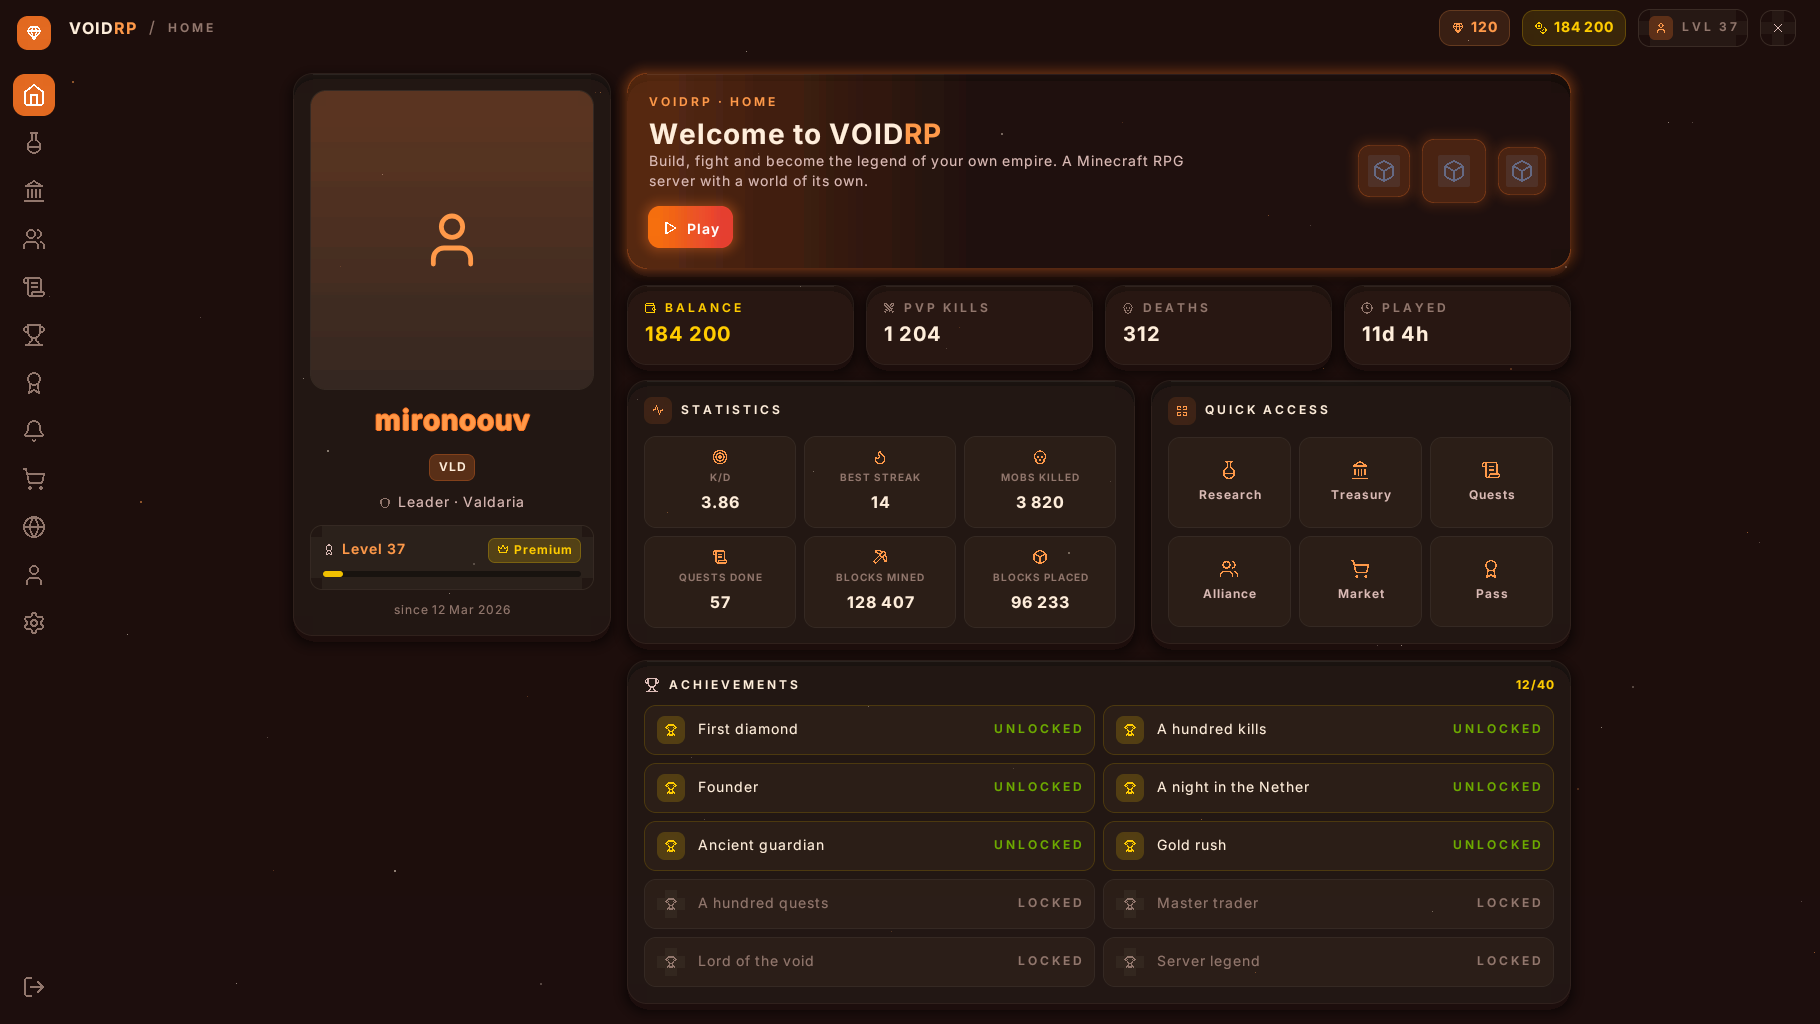
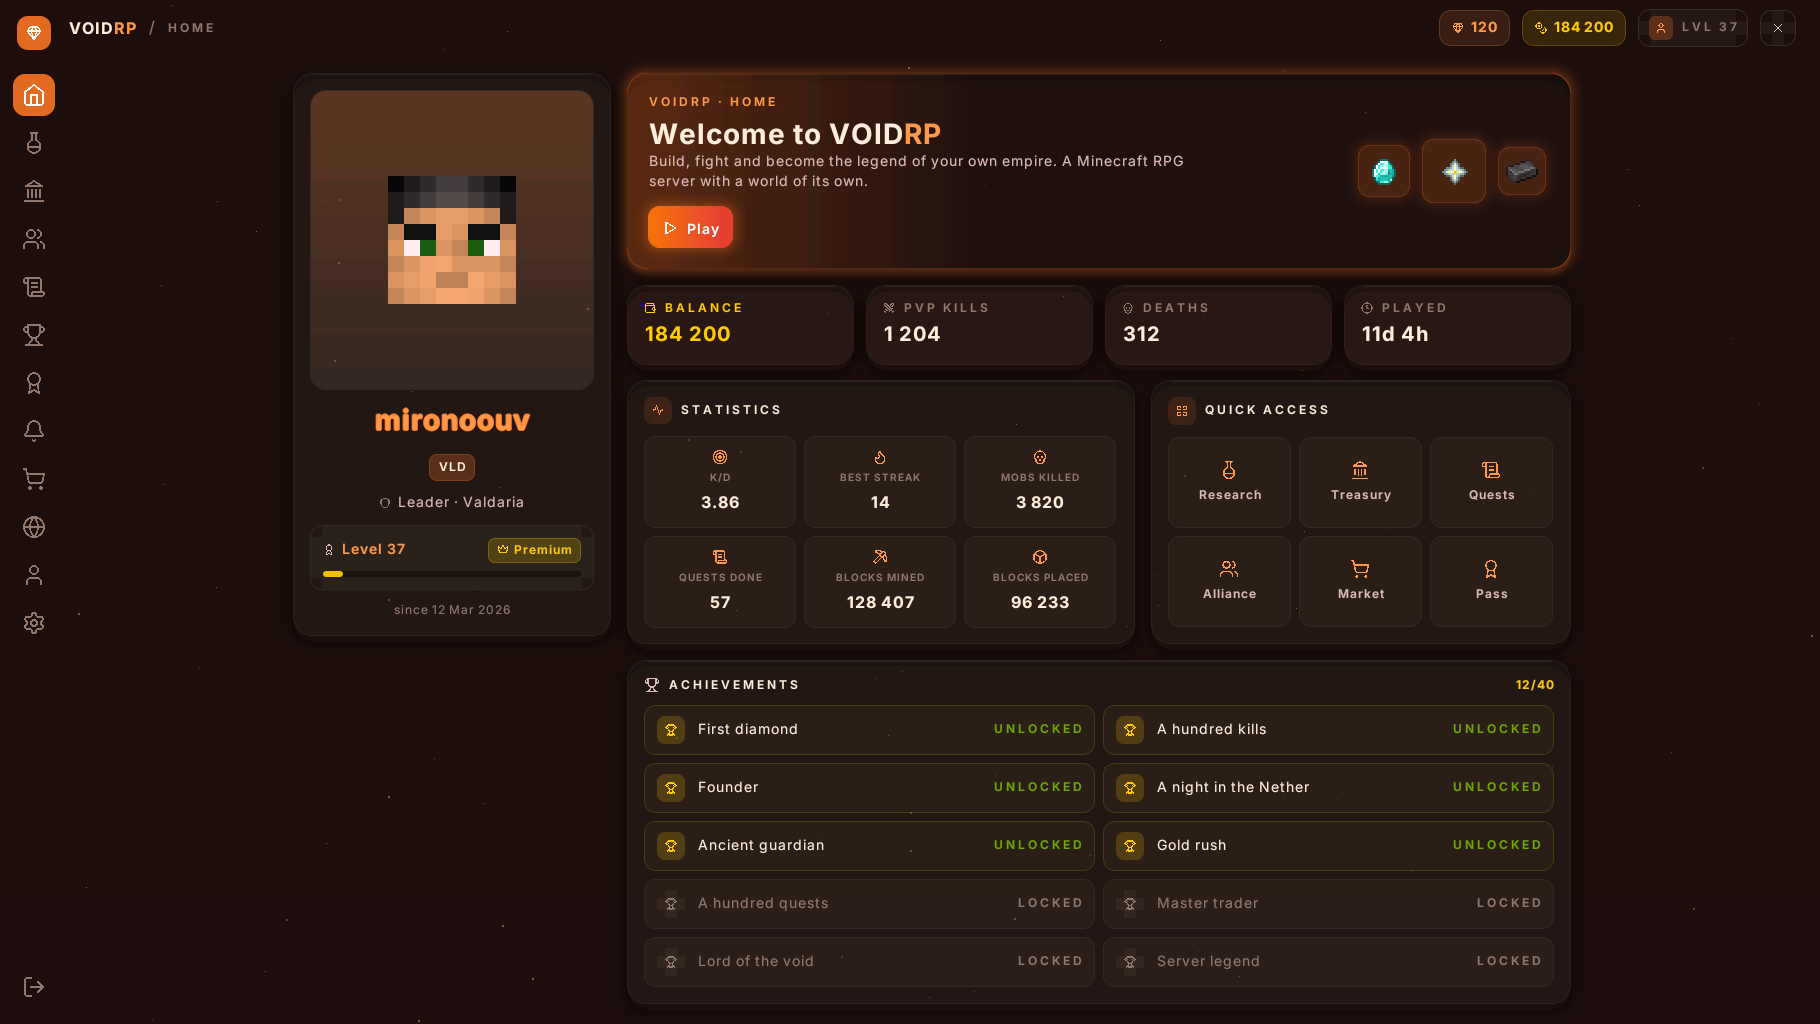
Pictures: a real client on the front page, and the rest redrawn
The hero was a preview render with a placeholder face and placeholder cubes
where the item icons go. It is a screenshot of a vanilla client now — the
player's own skin, the game's own textures, and the cursor on the tile it is
hovering — which is what the paragraph under it had been claiming all along.

The four theme pictures are redrawn from the current code with the real face and
real item textures (`./gradlew preview` takes VOIDRP_CLIENT_JAR, VOIDRP_HEADS and
VOIDRP_IMAGES). The two component sheets came out byte for byte identical, so
they were already current.

Also: the preview tool printed its one line of output in Russian.

Changed region(s): [[0.2154, 0.1562, 0.3077, 0.3125], [0.7385, 0.1562, 0.8615, 0.1875]]

diff --git a/src/test/kotlin/ru/voidrp/ui/Preview.kt b/src/test/kotlin/ru/voidrp/ui/Preview.kt
@@ -129,7 +129,7 @@ object Preview {
         render(StatesSheet().view(), File(out, "states.png"))
         render(StatesSheet(part = 2).view(), File(out, "states-2.png"))
         render(StatesSheet(hover = "hover:button").view(), File(out, "states-hover.png"))
-        println("Снимки: ${out.absolutePath}")
+        println("Drawn into ${out.absolutePath}")
     }
 
 }

diff --git a/README.md b/README.md
@@ -15,11 +15,13 @@ Clients from 1.21.6 to 26.1.2 are served too. Mojang renamed the text shader in 
 pack names its files outright, so one archive cannot cover both versions — the plugin
 builds two packs and hands each player the one their client can read.
 
-![The home page, drawn by a vanilla client](docs/home.png)
+![The home page on a vanilla client, cursor and all](docs/home.png)
 
-This is not a mock-up: the page above was drawn by the same code that sends it to a player.
+That is a screenshot, not a mock-up and not a render: a vanilla client, the player's own
+skin, the game's own item textures, and the cursor sitting on the tile it is hovering.
 Every rectangle, letter and icon in it travels as one line of text in an invisible boss
-bar. The picture is taken with `./gradlew preview`, without starting the game.
+bar. The pictures further down are drawn with `./gradlew preview`, which puts the same
+pages on disk without starting the game.
 
 ## Why
 
